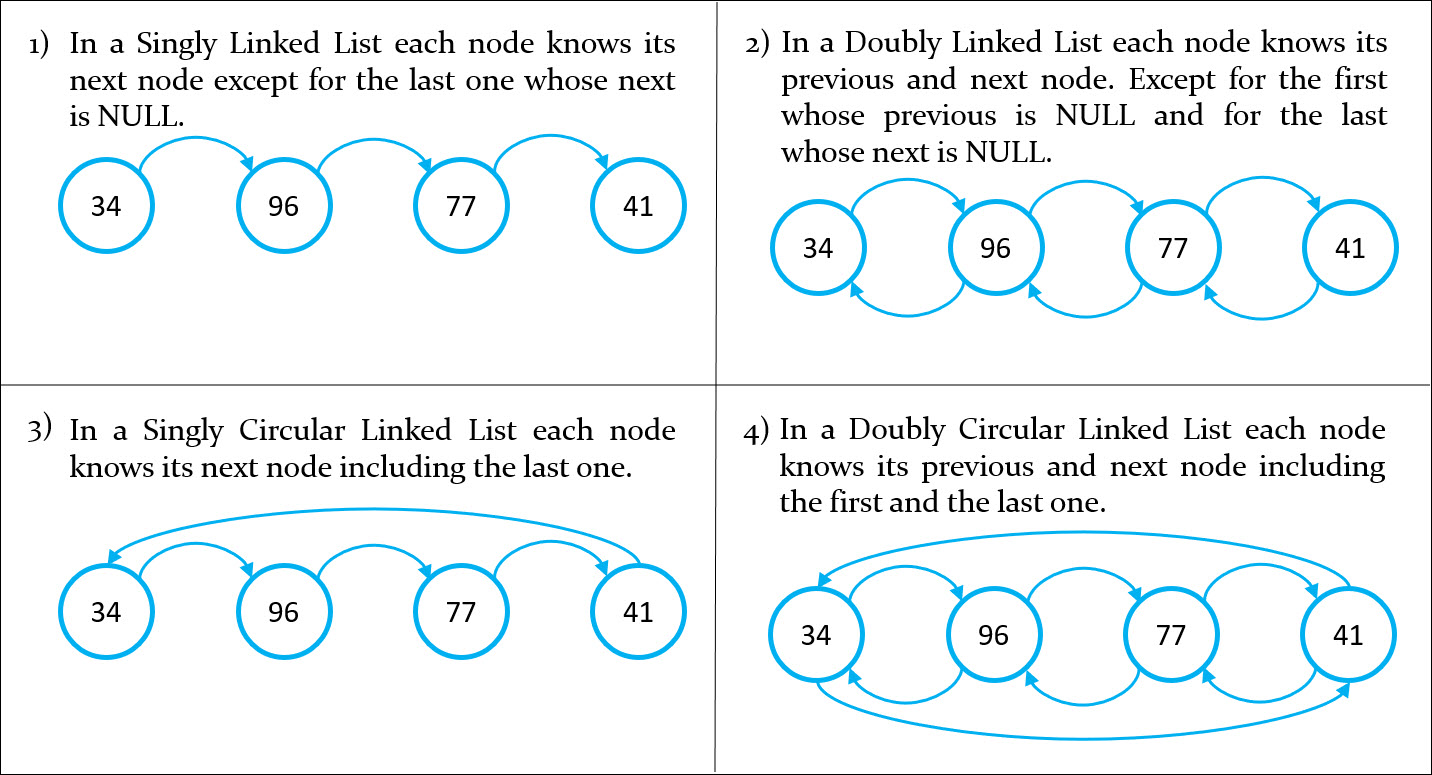
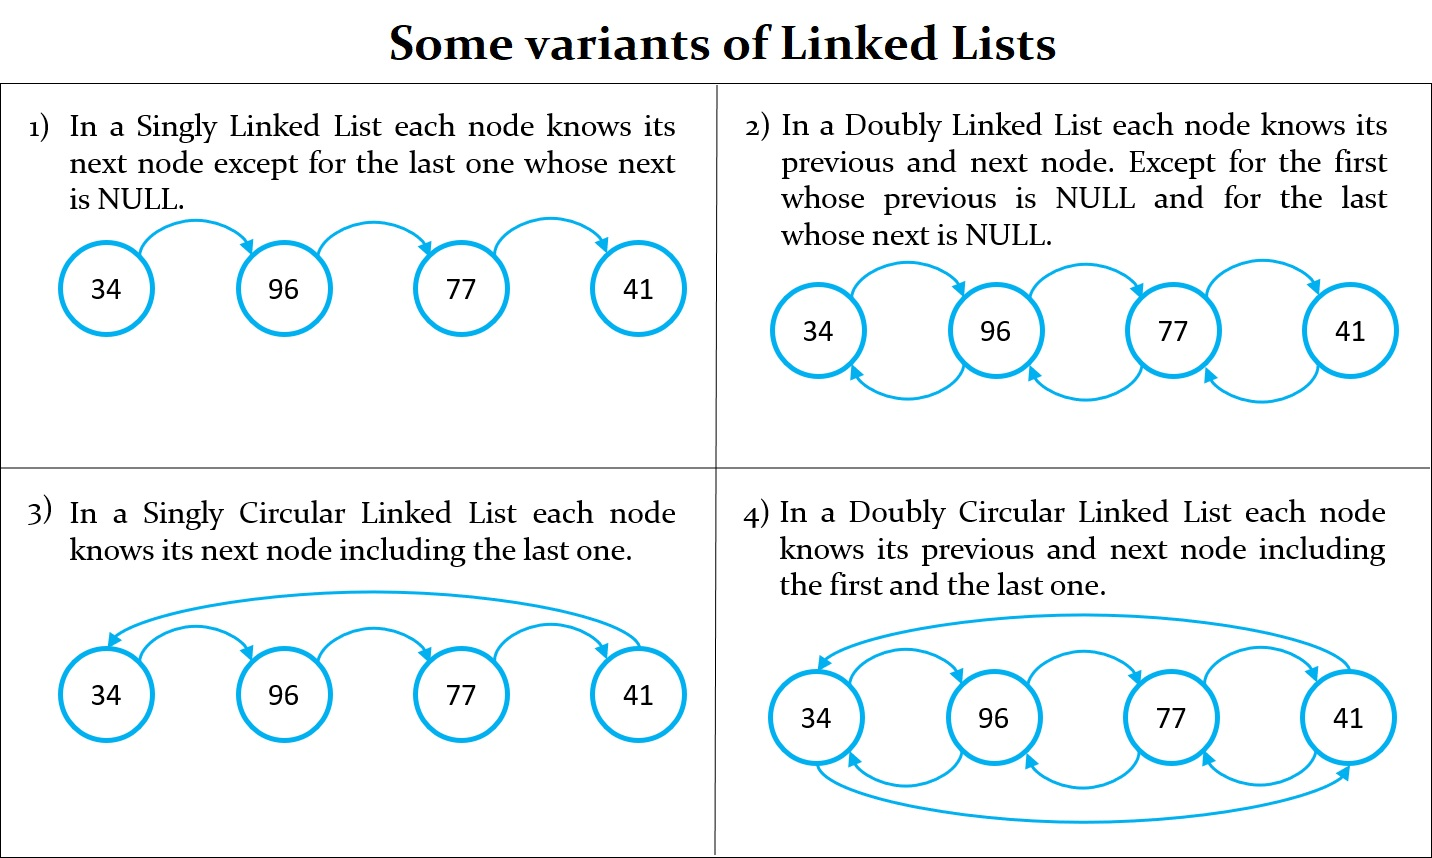
Upload new image of Linked Lists variants. Now it has a tittle.

diff --git a/DS-List8/README.md b/DS-List8/README.md
@@ -4,7 +4,7 @@ A linked list is a linear data structure. It consists of a sequence of nodes whe
 
 #TODO mentions Queue and Stack
 ### Some variants of Linked Lists
-<img src="../images/linked_lists_variants.jpg" />
+<img src="../images/linked_lists_variants.jpg" width="75%" />
 
 Advantages
 
